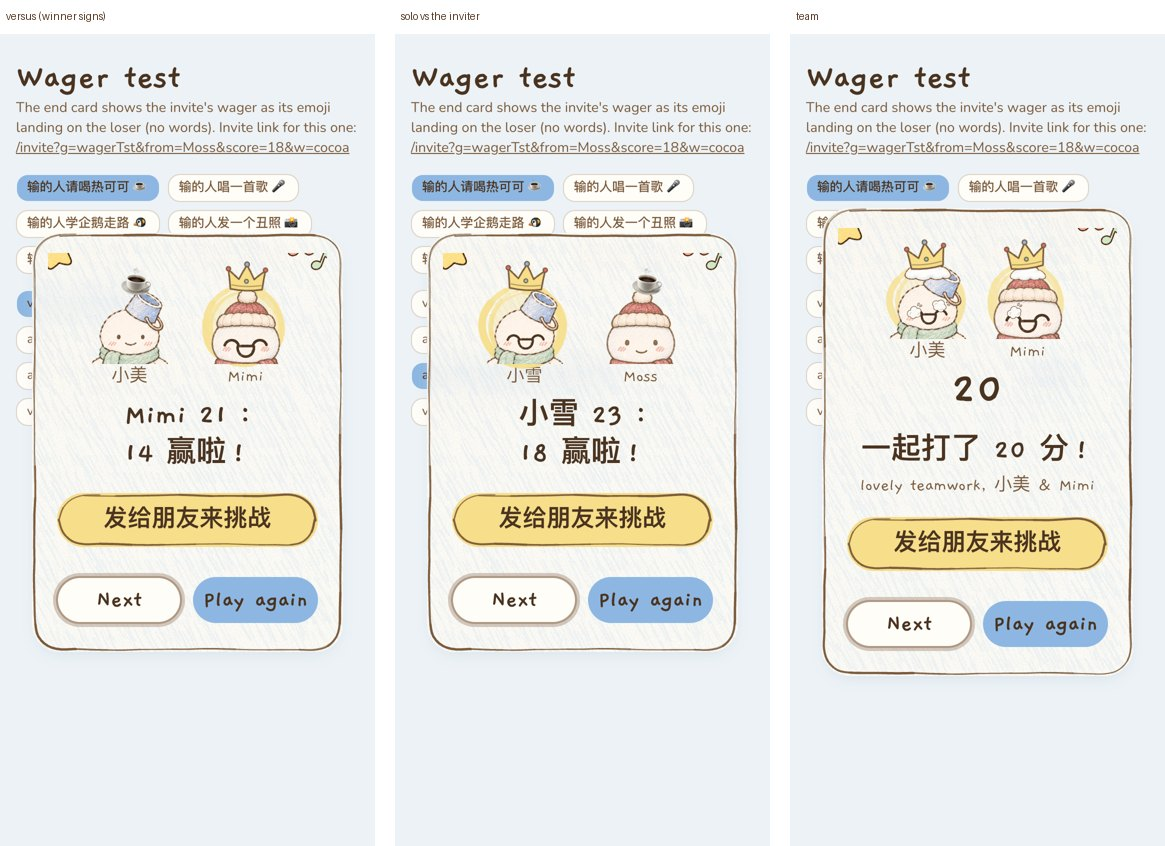
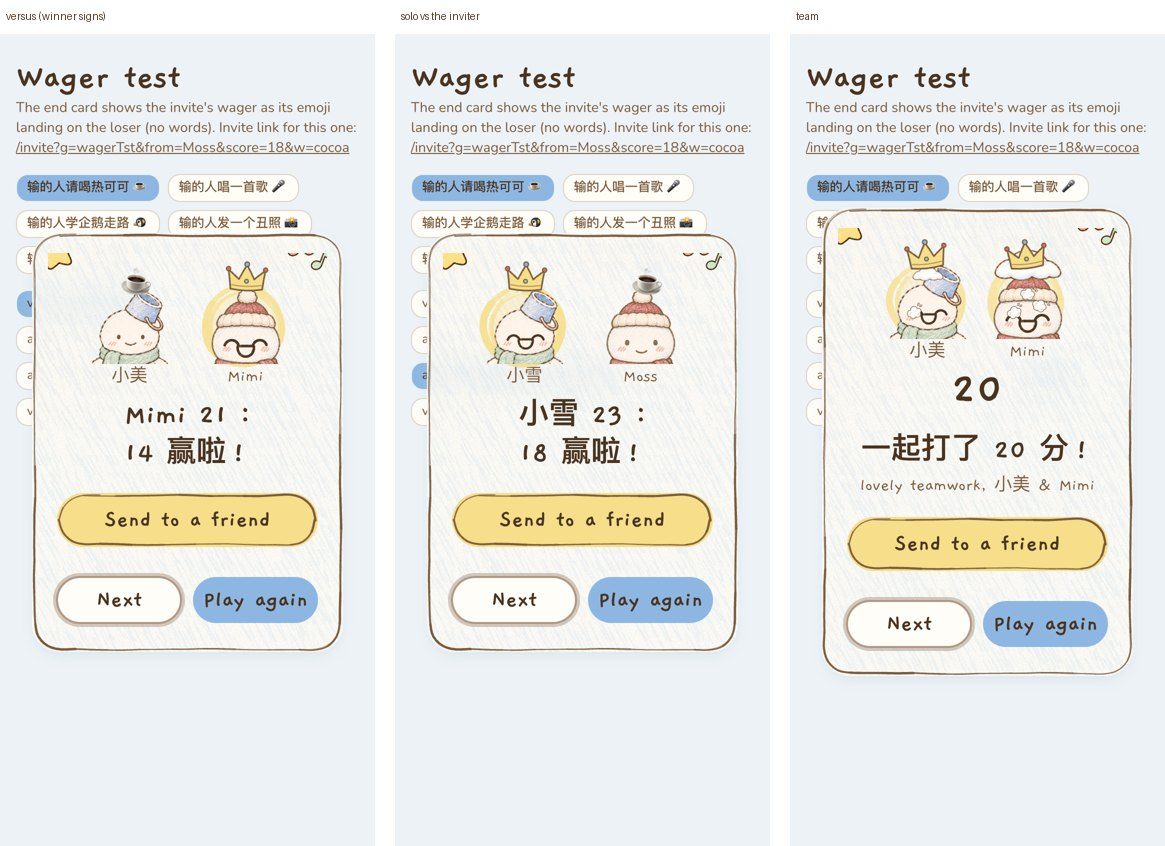
End card share button in simple English: Send to a friend (Rachel)

diff --git a/src/features/hud/content.ts b/src/features/hud/content.ts
@@ -100,10 +100,10 @@ export const content = {
       /** Step 2's small heading. */
       board: "put it on the board",
       /**
-       * One tap to challenge a friend (Rachel: "最好最好是一步就直接可以分享"): the invite link, no sheet. Chinese, the
-       * invite's fun is in Chinese; the WeChat lines in Chinese because its menus are.
+       * One tap to challenge a friend (Rachel: "最好最好是一步就直接可以分享"): the invite link, no sheet. The button is
+       * simple English like Next and Play again (Rachel); the notes in Chinese, because WeChat's menus are.
        */
-      challenge: "发给朋友来挑战",
+      challenge: "Send to a friend",
       copied: "链接已复制",
       copyFailed: "复制地址栏的链接发给朋友吧",
       wechat: "链接已复制，粘贴发给朋友吧",

diff --git a/src/features/game/Game.tsx b/src/features/game/Game.tsx
@@ -238,7 +238,7 @@ export function Game() {
   // (alone, against the inviter's score; two on one phone, the lower total). A team has no loser, so no effect.
   const stake = state.phase === "over" && !together && (!solo || rival) ? wagerFor(invite.wager) : null;
   const wager = stake ? { emoji: stake.emoji } : null;
-  // "发给朋友来挑战" on the end card, signed by whoever won: alone, you (your score); two on one phone, the winner (a tie:
+  // "Send to a friend" on the end card, signed by whoever won: alone, you (your score); two on one phone, the winner (a tie:
   // player one); a team, player one with no score (a team's total is not one person's). The invite's wager carries on.
   const challenge: Challenge | null = (() => {
     if (state.phase !== "over") return null;

diff --git a/src/features/hud/ChallengeButton.tsx b/src/features/hud/ChallengeButton.tsx
@@ -1,7 +1,7 @@
 "use client";
 
 /**
- * "发给朋友来挑战" on the end card: one tap shares a challenge, no sheet and no form (Rachel: "最好最好是一步就直接可以分享").
+ * "Send to a friend" on the end card: one tap shares a challenge, no sheet and no form (Rachel: "最好最好是一步就直接可以分享").
  * The link is the invite card's (`/invite?g=<group>&from=<name>&score=<n>&w=<wager>`), made with the share and invite
  * features' own helpers: this device's group (`ensureGroupId`, so the friend lands on the same board), the name and
  * score the game passes (a two-player match: the winner), and the invite's wager if the match came from one.

diff --git a/src/features/hud/Match.tsx b/src/features/hud/Match.tsx
@@ -107,7 +107,7 @@ export type MatchEndProps = {
    * loser's head after the snowballs (a tie: between the two). Only when there are two sides.
    */
   wager?: { emoji: string } | null;
-  /** Step 1's big "发给朋友来挑战": who signs the challenge, their score, the wager (the game decides). */
+  /** Step 1's big "Send to a friend": who signs the challenge, their score, the wager (the game decides). */
   challenge?: Challenge | null;
   /** Team up: one team total, both snowmen crowned, no winner. */
   team?: boolean;

diff --git a/docs/DECISIONS.md b/docs/DECISIONS.md
@@ -103,4 +103,4 @@ One line per decision: date, what, why.
 - 2026-11-25 · One language per line (Rachel: "比较简单的英文，你就没有必要中英文两个了"). Never stack the same words in Chinese and English. Simple English stays English only (buttons and plain UI: "Play", "got it", "see the board", "send invite", the start cards, the round rule cards, the board's plain lines); lines whose fun is in Chinese stay Chinese only (the invite headline "X邀请你来打一局雪仗", the wager lines on the invite, 今日最惨, the funny titles, the sticker names, "你被X砸了一脸雪！", "X刚刚超过你N分", the notes' buttons 砸回去 / 复仇 / 好耶, the loading line on the invite page); instructions about WeChat's own menus stay Chinese, because WeChat's menus are Chinese. Translate only when it is really needed; a later change should pick one language for a new line, not add a twin. (The end card and the share poster were left as they were here: they are being redesigned on their own, one language per line too.)
 - 2026-11-25 · The end of a match is three steps, not one crowded card (Rachel): 1 the result, a little scene first (the winner pelts the loser with snowballs, about 2 s; a tie throws both ways; alone after an invite it is you against the inviter; alone with nobody to beat, the solo crown), then one line "Red Hat 13 : 6 赢啦！" and, with a wager, "赌注 · 输的人学企鹅走路 🐧" and "QA 输了，快去学企鹅走路吧！" (tie: "平局！这次谁都不用学企鹅走路 😆"), with only "Next" and "Play again"; 2 the board, one row per player with their start-card name and one "Pop us on", the group board, "Make a poster", "Play again"; 3 the poster, simpler: "Plop!", the two snowmen standing a little out of the paper (a soft shadow and a card edge, still her art), who won, the score, the QR and "扫码来挑战" (no invite line, rounds, date or English pairs). One language per line throughout.
 - 2026-11-26 · End card shows the wager as an effect only, no text (Rachel): after the snowballs the preset's emoji drops onto the loser's head with a bounce and a star sparkle (a tie: between the two). The invite card and invite sheet keep their wager words.
-- 2026-11-26 · Sharing is one tap from the end card; first-time sketch arrow on the share button, no tutorial card (Rachel). The result step has one big "发给朋友来挑战" (the invite link, signed by the winner, with their score and the invite's wager; WeChat copies and points at ···; elsewhere the system share sheet, or copy). "Make a poster" is a quiet link on step 2; the wager picker stays only in the corner invite sheet.
+- 2026-11-26 · Sharing is one tap from the end card; first-time sketch arrow on the share button, no tutorial card (Rachel). The result step has one big "Send to a friend" (simple English, like Next and Play again) (the invite link, signed by the winner, with their score and the invite's wager; WeChat copies and points at ···; elsewhere the system share sheet, or copy). "Make a poster" is a quiet link on step 2; the wager picker stays only in the corner invite sheet.
